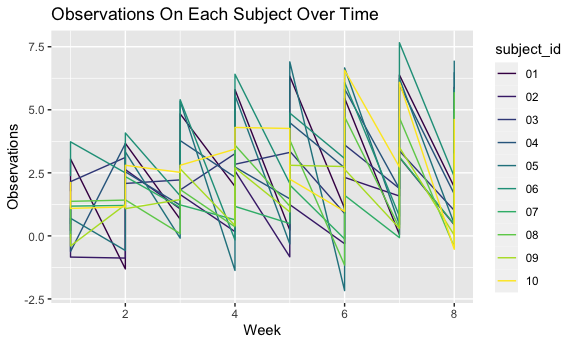
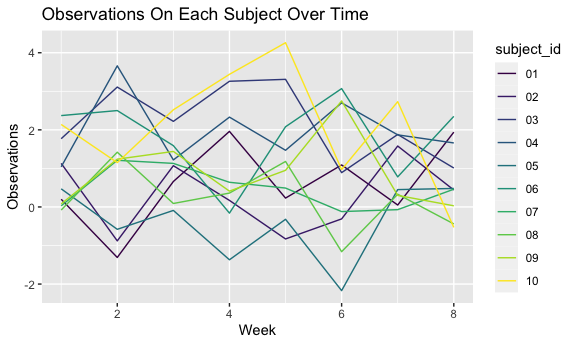
write a function fill in missing vectors

diff --git a/p8105_hw_ac4964.md b/p8105_hw_ac4964.md
@@ -19,8 +19,6 @@ library(tidyverse)
     ## x dplyr::lag()    masks stats::lag()
 
 ``` r
-library(dplyr)
-
 knitr::opts_chunk$set(
   fig.width = 6,
   fig.asp = .6,
@@ -258,8 +256,6 @@ Iterate over file names and read in data for each subject using
 purrr::map and saving the result as a new variable in the dataframe
 
 ``` r
-path = "./data/zip_data/"
-
 file_name_function = function(name) {
   
   file_name_df =
@@ -309,7 +305,8 @@ tidy_results =
     names_prefix = "file_name.week_",
     names_to = "week",
     values_to = "observation"
-  )
+  ) %>% 
+  filter(con_or_exp == "con")
 ```
 
 Make a spaghetti plot showing observations on each subject over time,
@@ -330,12 +327,18 @@ tidy_results %>%
 
 ## Problem 3
 
+The code chunk below loads the iris dataset from the tidyverse package
+and introduces some missing values in each column. The purpose of this
+problem is to fill in those missing values.
+
 ``` r
 library(tidyverse)
+library(dplyr)
 
 set.seed(10)
 
-iris_with_missing = iris %>% 
+iris_with_missing = 
+  iris %>% 
   map_df(~replace(.x, sample(1:150, 20), NA)) %>%
   mutate(Species = as.character(Species))
 ```
@@ -343,15 +346,61 @@ iris_with_missing = iris %>%
 write a function
 
 ``` r
+fill_in_character = 
+  iris_with_missing %>% 
+  mutate(
+    Species = replace_na(Species, "virginica")
+  )
+
+fill_in_numbers = 
+  iris_with_missing %>% 
+  mutate(
+    Sepal.Length = replace_na(Sepal.Length, mean(Sepal.Length, na.rm = TRUE))
+  )
+```
+
+``` r
 fill_in_missing = function(vector){
   
-  if(is.numeric){
+  if (is.numeric(vector)) {
+    
+    vector = replace_na(vector, mean(vector, na.rm = TRUE))
     
   }
   
-  if(is.character){
+  if (is.character(vector)) {
+    
+    vector = replace_na(vector, "virginica")
     
   }
   
+  return(tibble(vector))
 }
+
+character_testing = fill_in_missing(iris_with_missing$Species)
+number_testing = fill_in_missing(iris_with_missing$Petal.Width)
 ```
+
+``` r
+iris_with_missing %>% 
+  nest(data = Sepal.Length:Species) %>% 
+  mutate(
+    data = map(data, fill_in_missing)
+  ) %>% 
+  unnest(data)
+```
+
+    ## # A tibble: 150 × 5
+    ##    Sepal.Length Sepal.Width Petal.Length Petal.Width Species
+    ##           <dbl>       <dbl>        <dbl>       <dbl> <chr>  
+    ##  1          5.1         3.5          1.4         0.2 setosa 
+    ##  2          4.9         3            1.4         0.2 setosa 
+    ##  3          4.7         3.2          1.3         0.2 setosa 
+    ##  4          4.6         3.1          1.5        NA   setosa 
+    ##  5          5           3.6          1.4         0.2 setosa 
+    ##  6          5.4         3.9          1.7         0.4 setosa 
+    ##  7         NA           3.4          1.4         0.3 setosa 
+    ##  8          5           3.4          1.5         0.2 setosa 
+    ##  9          4.4         2.9          1.4         0.2 setosa 
+    ## 10          4.9         3.1         NA           0.1 setosa 
+    ## # … with 140 more rows
